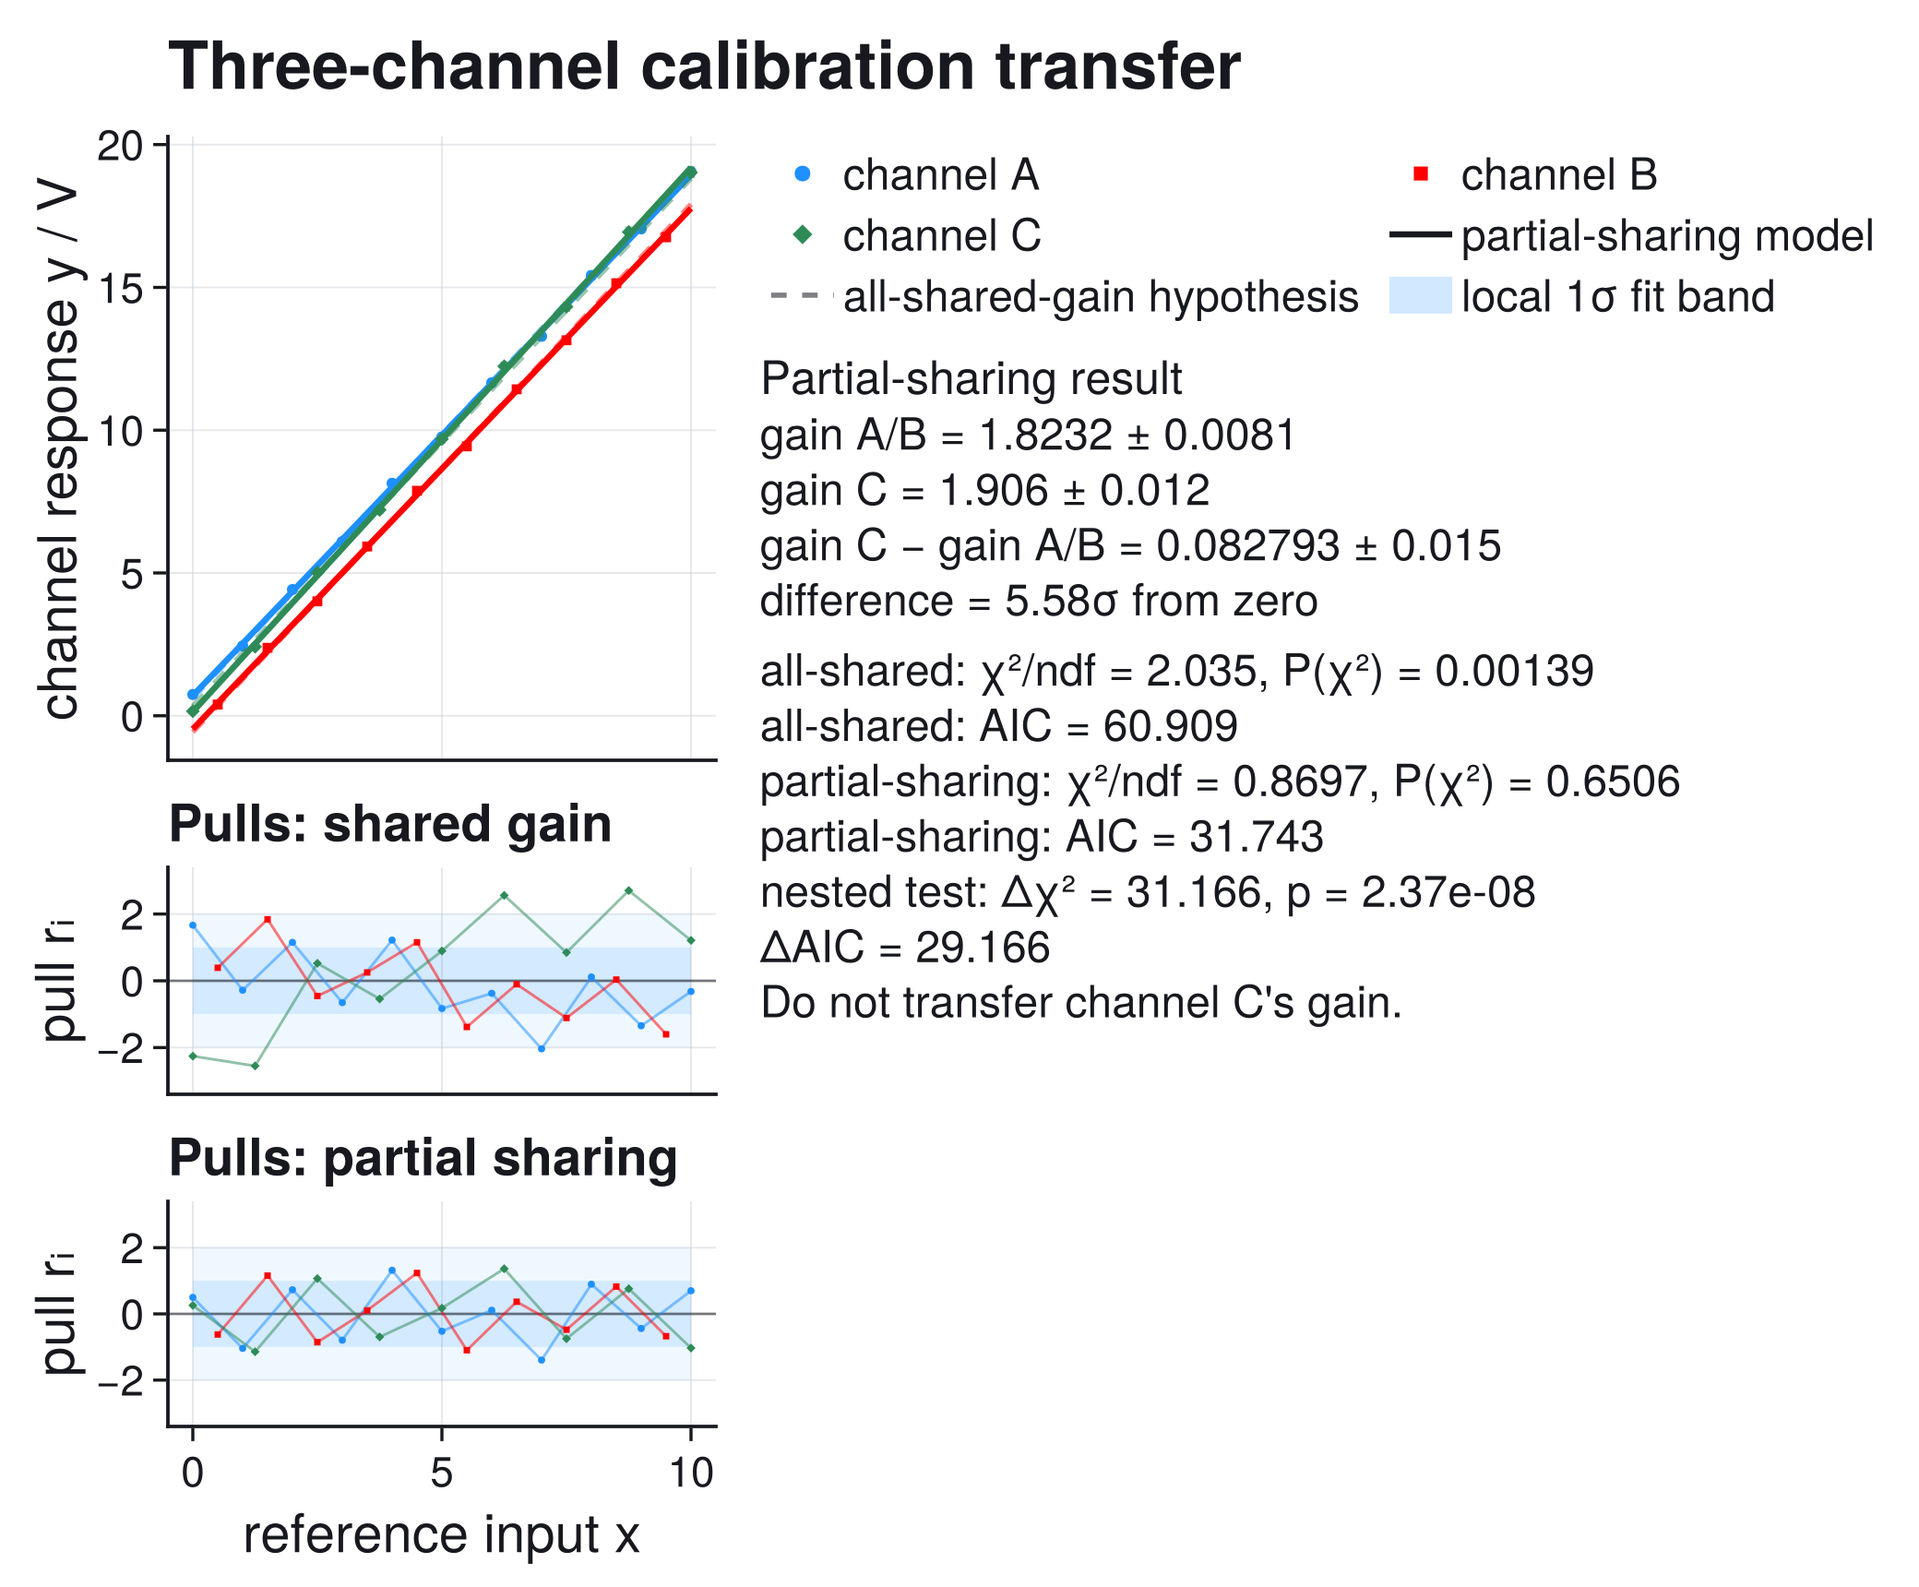
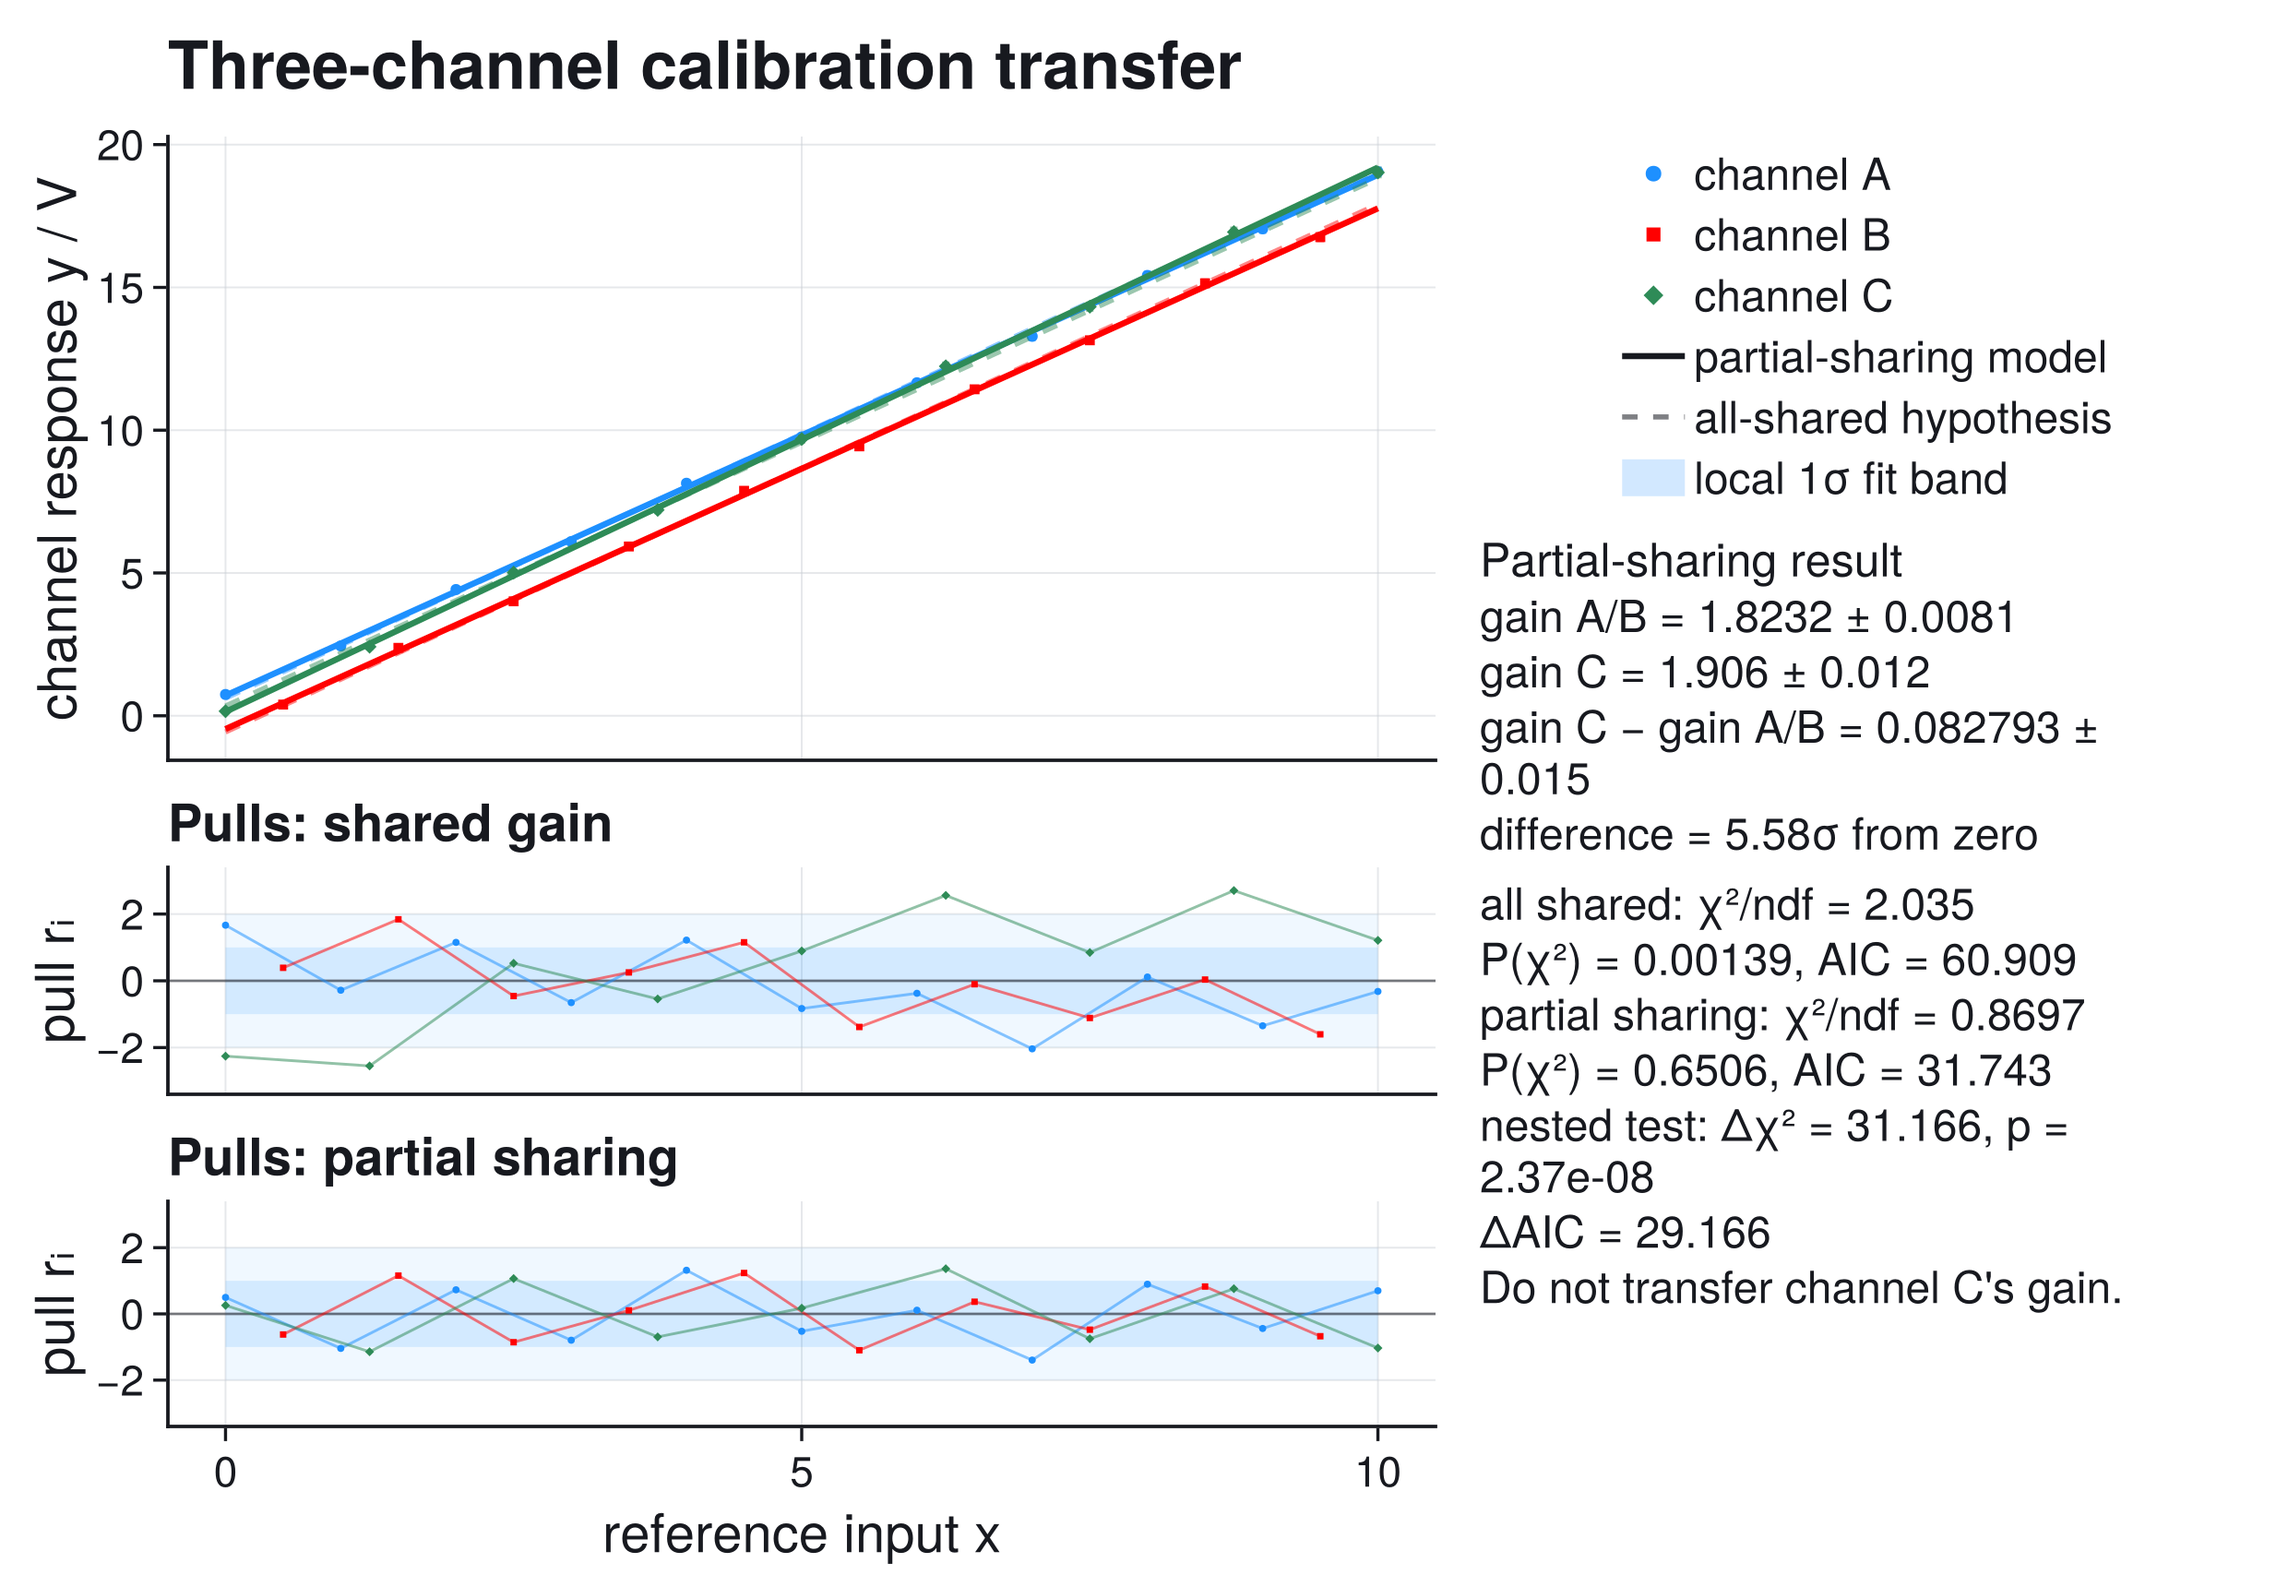
fix: bound detailed plot information panels

diff --git a/docs/src/api_plotting.md b/docs/src/api_plotting.md
@@ -138,7 +138,7 @@ remains available.
 | `show_panel` | `true` | Show the structured right panel or compact in-axis panel. Independent of visual style. |
 | `stats_position` | `:right` | `:right` or `:inside`. |
 | `inside_stats_position` | `:lt` | `:lt`, `:lb`, `:rt`, `:rb` and their long aliases. |
-| `stats_panel_width` | `:auto` | Natural Makie width, a fraction `0 < w <= 1`, or a positive pixel width. Fractions are clamped to 300--560 px. |
+| `stats_panel_width` | `:auto` | Natural Makie width, a fraction `0 < w <= 1`, or a positive pixel width. Fractions are clamped to 300--560 px; explicit widths wrap long plain-text lines. |
 | `panel_gap` | style-dependent | Gap between data axis and right panel. |
 | `stats_mode` | `:compact` | `:compact` or `:full`. |
 | `stats_sigdigits` | `5` | Significant digits used only for displayed values. |
@@ -235,7 +235,9 @@ plot_info_panel!(
 
 The alternative `legend_source=axis` builds the legend from labeled content on
 an axis. `fontsize`, `color`, `muted_color`, and `legend_kwargs` override style
-defaults. `tellwidth=true` lets the panel report its natural width;
+defaults. With `width=nothing`, the panel reports its natural Makie width. Pass
+`width=...` to bound an unusually detailed panel and wrap long plain-text lines.
+`tellwidth=true` reports the selected width to the parent layout, while
 `tellheight=false` prevents a short report from shrinking or vertically
 centering the adjacent scientific axis. The function returns its `GridLayout`.
 

diff --git a/docs/src/plotting_design.md b/docs/src/plotting_design.md
@@ -82,8 +82,9 @@ The sans style defaults to `(1040, 640)` with a right-side panel and
 `(760, 520)` without it. Pass
 `figure_size=(width, height)` for a required
 export footprint. The requested size is preserved; report length does not
-silently resize the saved figure. `stats_panel_width=:auto` should remain the
-default unless an external journal template requires an explicit width.
+silently resize the saved figure. `stats_panel_width=:auto` uses Makie's natural
+layout width. An explicit width bounds and wraps an unusually detailed custom
+panel instead of allowing it to compress the data axis.
 
 ## Two Visual Styles
 
@@ -315,9 +316,10 @@ fig = with_theme(theme) do
 end
 ```
 
-The panel reports its natural width to Makie's `GridLayout` and does not dictate
-the height of the scientific row. Use `Auto()` sizing for normal layouts; pass
-an explicit panel width only when the external output format requires one.
+By default the panel reports its natural width to Makie's `GridLayout` and does
+not dictate the height of the scientific row. For a detailed custom report,
+pass `width=...`: the panel then keeps that width and wraps plain-text lines
+instead of compressing the scientific axes.
 
 ## Diagnostic Figures
 
